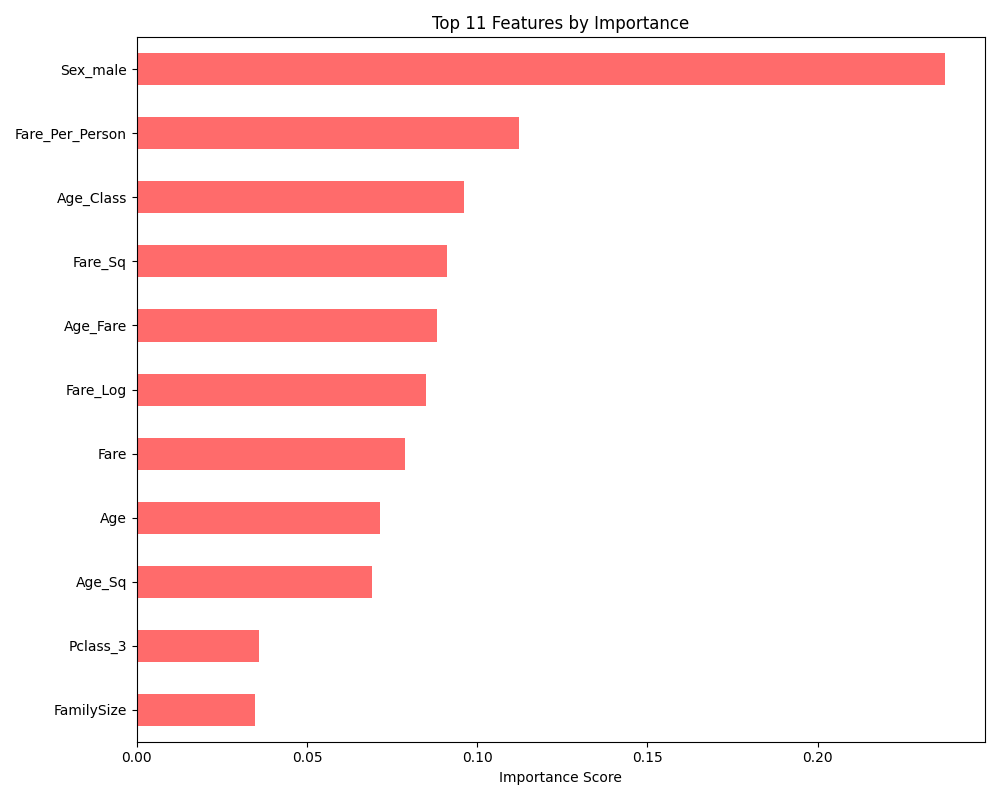
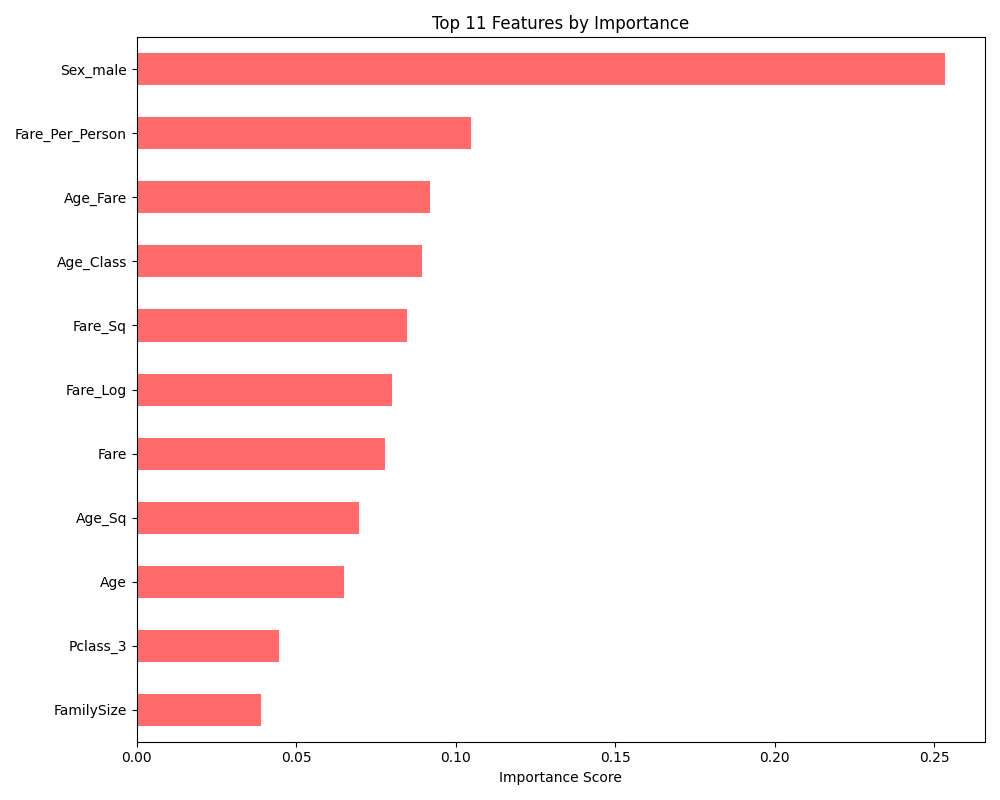
Fixed the defaulting to hardcoded value error

diff --git a/week6/ml_project/src/features/build_features.py b/week6/ml_project/src/features/build_features.py
@@ -6,10 +6,10 @@ import json
 from pathlib import Path
 from sklearn.pipeline import Pipeline
 from sklearn.compose import ColumnTransformer
-from sklearn.preprocessing import StandardScaler, OneHotEncoder
+from sklearn.preprocessing import StandardScaler
 from sklearn.model_selection import train_test_split
 
-# Add project root to path for imports
+# Add project root to path
 project_root = Path(__file__).resolve().parent.parent.parent
 sys.path.insert(0, str(project_root))
 
@@ -17,47 +17,53 @@ from src.features.transformers import TitanicFeatureCreator
 
 if __name__ == "__main__":
     # 1. Load Data
-    raw_path = "src/data/raw/train.csv"
-    if not os.path.exists(raw_path):
-        raw_path = "src/data/processed/final.csv"
+    
+    raw_path = "src/data/processed/final.csv"
 
     print(f"⏳ Loading data from {raw_path}...")
     df = pd.read_csv(raw_path)
     
-    # 2. Load selected features from feature_list.json (generated by feature_selector.py)
-    feature_list_path = "src/features/feature_list.json"
+    # 2. Determine Features (Draft vs Production Logic)
+    feature_list_path = "src/data/features/feature_list.json"
+    
     if os.path.exists(feature_list_path):
+        # PRODUCTION MODE: Use the optimized list from Selector
         with open(feature_list_path, 'r') as f:
             feature_config = json.load(f)
             selected_features = feature_config['selected_features']
-        print(f"✅ Loaded {len(selected_features)} features from {feature_list_path}")
+        print(f"✅ PRODUCTION MODE: Using top {len(selected_features)} features from JSON.")
     else:
-        # Fallback to default 11 features if feature_list.json doesn't exist
+        # DRAFT MODE: Use EVERYTHING so the Selector can choose
+        print("⚠  DRAFT MODE: feature_list.json not found.")
+        print("   Selecting ALL candidate features for RFE analysis.")
+        
+        # We manually list everything our Transformer creates
         selected_features = [
             'Age', 'Fare', 'FamilySize', 'Fare_Log', 'Fare_Per_Person', 
-            'Age_Class', 'Age_Fare', 'Age_Sq', 'Fare_Sq', 'Sex_male', 'Pclass_3'
+            'Age_Class', 'Age_Fare', 'Age_Sq', 'Fare_Sq', 'IsAlone', 
+            'Is_Child', 'Is_Senior', 
+            'Sex_male', 
+            'Pclass_1', 'Pclass_2', 'Pclass_3', 
+            'Embarked_C', 'Embarked_Q', 'Embarked_S'
         ]
-        print("⚠  feature_list.json not found, using default features")
     
+    # 3. Build Pipeline
     print("⚙  Building Pipeline...")
-    print(f"   Features ({len(selected_features)}): {selected_features}")
     
-    from sklearn.preprocessing import StandardScaler
-    
+    # We use ColumnTransformer to keep ONLY the selected features and scale them
     preprocessor = ColumnTransformer(
         transformers=[
             ('select_and_scale', StandardScaler(), selected_features)
         ],
-        remainder='drop'
+        remainder='drop'  # Drop anything not in the list
     )
     
-    # Use the imported class
     pipeline = Pipeline(steps=[
         ('engineer', TitanicFeatureCreator()),
         ('preprocessor', preprocessor)
     ])
     
-    # 3. Fit & Save
+    # 4. Fit & Save
     X = df.drop('Survived', axis=1, errors='ignore')
     y = df['Survived']
     
@@ -66,16 +72,18 @@ if __name__ == "__main__":
     
     os.makedirs("src/models", exist_ok=True)
     joblib.dump(pipeline, "src/models/pipeline.pkl")
-    print("✅ Pipeline Saved to src/models/pipeline.pkl")
+    print("✅ Pipeline Saved.")
     
-    # 4. Save Processed Data for Training
-    print("⚙  Saving Processed Data...")
+    # 5. Save Data for Training/Selector
     X_processed = pipeline.transform(X)
     
     try:
+        # Get feature names from the scaler
         feat_names = pipeline.named_steps['preprocessor'].get_feature_names_out()
+        # Clean up names (StandardScaler adds "select_and_scale__" prefix sometimes)
+        feat_names = [f.split('__')[-1] for f in feat_names]
     except:
-        feat_names = [f"feat_{i}" for i in range(X_processed.shape[1])]
+        feat_names = selected_features
         
     X_df = pd.DataFrame(X_processed, columns=feat_names)
     

diff --git a/week6/ml_project/src/features/transformers.py b/week6/ml_project/src/features/transformers.py
@@ -18,7 +18,7 @@ class TitanicFeatureCreator(BaseEstimator, TransformerMixin):
             if col in df.columns:
                 df[col] = pd.to_numeric(df[col], errors='coerce')
 
-        # Defaults for missing data
+        # Defaults
         df['Fare'] = df['Fare'].fillna(14.45)
         df['Age'] = df['Age'].fillna(28.0)
         df['SibSp'] = df['SibSp'].fillna(0)
@@ -39,9 +39,18 @@ class TitanicFeatureCreator(BaseEstimator, TransformerMixin):
         df['Age_Sq'] = df['Age'] ** 2
         df['Fare_Sq'] = df['Fare_Log'] ** 2
         
-        # Binary encodings for best_model.pkl compatibility
-        # Create Sex_male and Pclass_3 as binary features
+        # --- MANUAL ONE-HOT ENCODING (Safe & Complete) ---
+        # 1. Sex
         df['Sex_male'] = (df['Sex'] == 'male').astype(int)
+        
+        # 2. Pclass (Create all 3 so selector can choose)
+        df['Pclass_1'] = (df['Pclass'] == 1).astype(int)
+        df['Pclass_2'] = (df['Pclass'] == 2).astype(int)
         df['Pclass_3'] = (df['Pclass'] == 3).astype(int)
+        
+        # 3. Embarked (Create all 3)
+        df['Embarked_C'] = (df['Embarked'] == 'C').astype(int)
+        df['Embarked_Q'] = (df['Embarked'] == 'Q').astype(int)
+        df['Embarked_S'] = (df['Embarked'] == 'S').astype(int)
         
         return df
